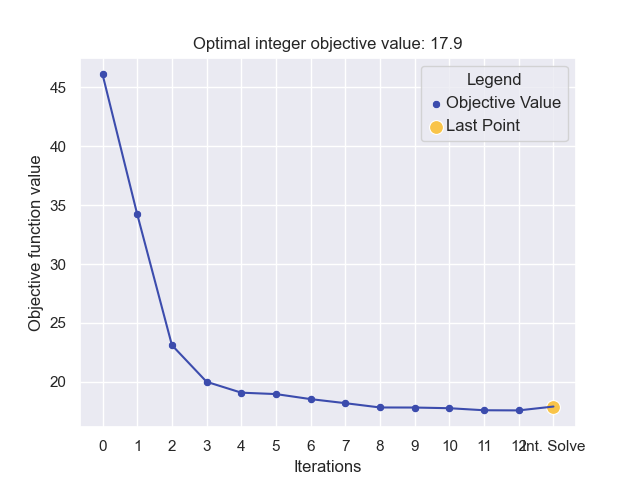
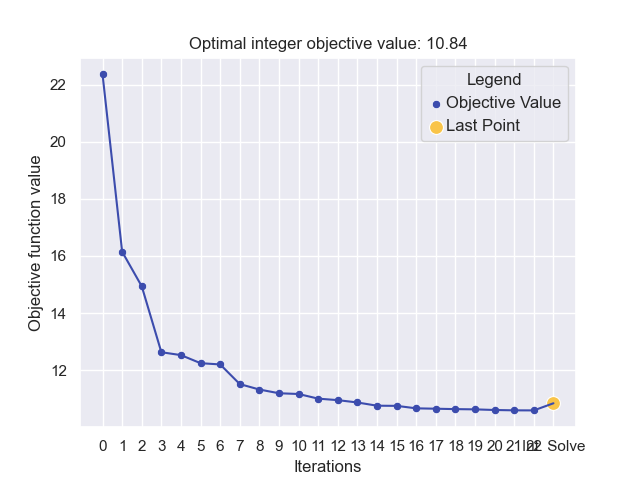
Updates

diff --git a/Individual/columngeneration.py b/Individual/columngeneration.py
@@ -30,7 +30,7 @@ results_cg = pd.DataFrame(columns=["it", "I", "D", "S", "objective_value", "time
 # Ergebnisse ausgeben
 print(results)
 # Parameter
-random.seed(123)
+random.seed(144236)
 time_Limit = 1800
 max_itr = 11
 output_len = 98
@@ -39,7 +39,7 @@ threshold = 5e-7
 eps = 0.04
 
 # Demand Dict
-demand_dict = demand_dict_fifty(len(T), 1.1, len(I), 2)
+demand_dict = demand_dict_fifty(len(T), 1, len(I), 2, 0.1)
 
 
 # **** Compact Solver ****
